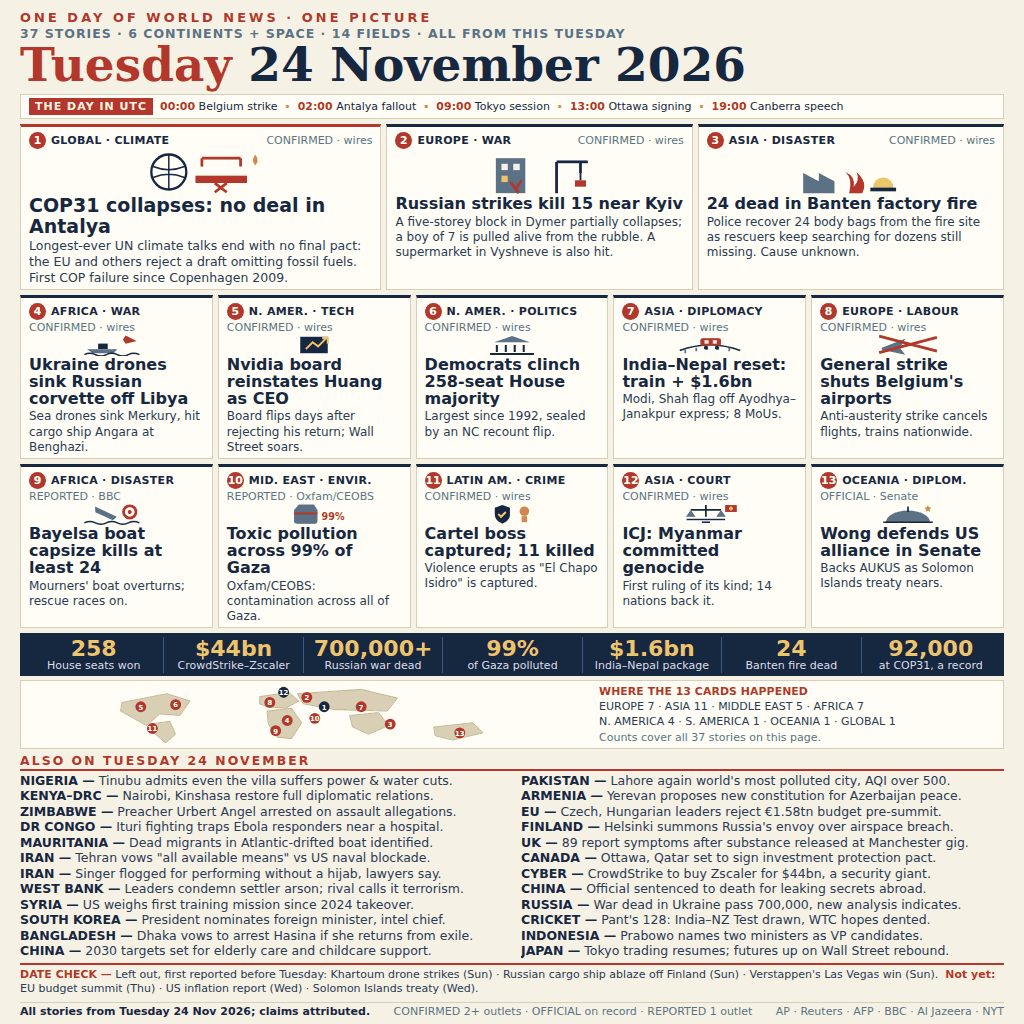
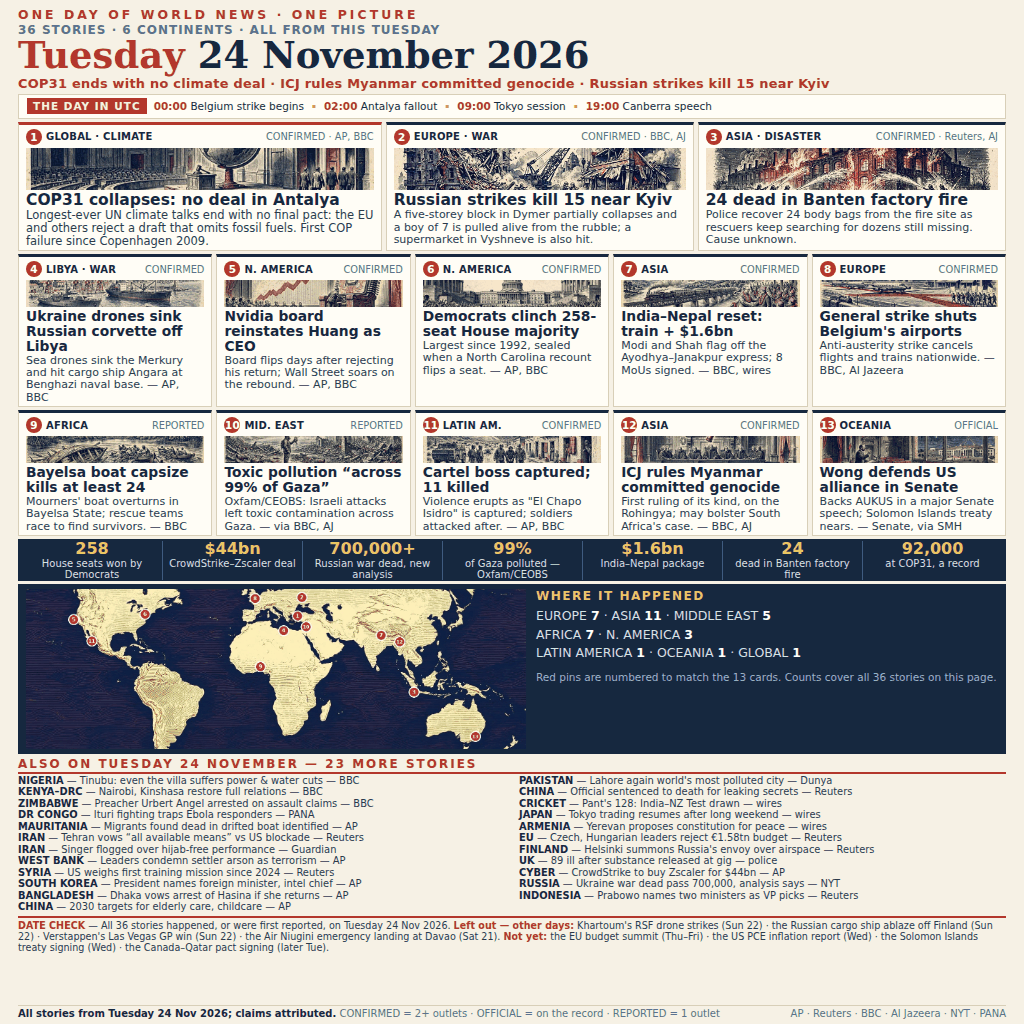
audited revision

diff --git a/main.py b/main.py
@@ -1,55 +1,36 @@
-#!/usr/bin/env python3
-"""Deterministic artwork copier for the news-image-20261124 entry.
+"""Copy the bundled art.png into the make.fun output directory.
 
-The finished page -- one picture summing up Tuesday 24 November 2026 --
-is stored in this repository as plain data in ``art.png``, right beside
-this script. There is nothing to render at run time: the artwork was
-produced once, checked, and frozen as bytes.
-
-Running this program therefore does exactly one thing: it copies those
-bytes, unchanged, to ``entry.png`` inside the output directory. The
-output directory comes from the ``MAKEFUN_OUTPUT_DIR`` environment
-variable and falls back to ``/output`` when the variable is unset.
-
-Because the program only ever copies a fixed file, two runs always
-produce byte-identical output.
+The finished image ships in this repository as ``art.png`` next to
+this script. The grader expects it as ``entry.png`` inside the
+directory named by MAKEFUN_OUTPUT_DIR (falling back to "/output").
+The copy is byte-for-byte, so repeated runs are identical.
 """
 
 import os
 import shutil
 import sys
 
-# The artwork lives next to this script, wherever the repo is checked out.
-HERE = os.path.dirname(os.path.abspath(__file__))
-ARTWORK = os.path.join(HERE, "art.png")
-
-# Name the grader expects inside the output directory.
-OUTPUT_FILENAME = "entry.png"
-
-
-def resolve_output_dir() -> str:
-    """Return the directory the entry image should be written to."""
-    return os.environ.get("MAKEFUN_OUTPUT_DIR") or "/output"
-
 
 def main() -> int:
-    if not os.path.isfile(ARTWORK):
-        print(f"error: artwork file not found: {ARTWORK}", file=sys.stderr)
+    script_dir = os.path.dirname(os.path.abspath(__file__))
+    source = os.path.join(script_dir, "art.png")
+    output_dir = os.environ.get("MAKEFUN_OUTPUT_DIR") or "/output"
+    os.makedirs(output_dir, exist_ok=True)
+    destination = os.path.join(output_dir, "entry.png")
+    if not os.path.exists(source):
+        print(f"Error: source file not found: {source}", file=sys.stderr)
         return 1
-
-    out_dir = resolve_output_dir()
-    os.makedirs(out_dir, exist_ok=True)
-
-    target = os.path.join(out_dir, OUTPUT_FILENAME)
-    shutil.copyfile(ARTWORK, target)
-
-    source_size = os.path.getsize(ARTWORK)
-    copied_size = os.path.getsize(target)
-    if copied_size != source_size:
-        print(f"error: copy verification failed: wrote {copied_size} bytes, expected {source_size}", file=sys.stderr)
+    shutil.copyfile(source, destination)
+    source_size = os.path.getsize(source)
+    destination_size = os.path.getsize(destination)
+    if destination_size != source_size:
+        print(
+            f"Error: copied size mismatch: {destination} is "
+            f"{destination_size} bytes, expected {source_size} bytes",
+            file=sys.stderr,
+        )
         return 1
-
-    print(f"copied {ARTWORK} -> {target} ({copied_size} bytes, verified)")
+    print(f"Copied {source} to {destination} ({source_size} bytes)")
     return 0
 
 

diff --git a/README.md b/README.md
@@ -4,7 +4,7 @@
 [![rank](https://make.fun/badge/news-image-20261124/fishit1070/news-image-20261124/rank.svg)](https://make.fun/bounty/news-image-20261124/leaderboard?utm_source=github&utm_medium=readme&utm_campaign=news-image-20261124)
 [![reward](https://make.fun/badge/news-image-20261124/fishit1070/news-image-20261124/reward.svg)](https://make.fun/bounty/news-image-20261124?utm_source=github&utm_medium=readme&utm_campaign=news-image-20261124)
 
-This entry sums up Tuesday 24 November 2026's world news in one 1024x1024 picture: 37 stories in total, led by 13 illustrated cards covering COP31's collapse in Antalya, the ICJ genocide ruling on Myanmar, 24 dead in the Banten factory fire, and a 258-seat US House majority. Around the cards sit a seven-number strip, a pinned world map, a UTC timeline and a 24-line ledger, plus a printed date check that separates the day's news from older and not-yet stories. The page is rendered once and shipped as data in art.png, and main.py copies it deterministically to the output directory.
+This is a revised entry summing up Tuesday 24 November 2026's world news in one 1024x1024 picture, with 36 stories in total: 13 illustrated cards led by COP31's collapse in Antalya, the ICJ genocide ruling on Myanmar, 24 dead in the Banten factory fire, and a 258-seat US House majority; around the cards sit a seven-number strip drawn from seven different stories, a pinned world map, a UTC timeline and a 23-line ledger of further stories; a printed date check separates the day's news from older and not-yet stories, and one previously-listed item was moved to the not-yet column after a pre-submission audit; the page is shipped as data in art.png and main.py copies it deterministically to the output directory.
 
 ## Run it
 
